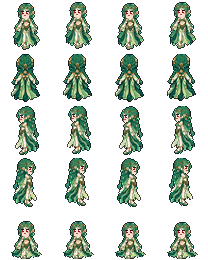
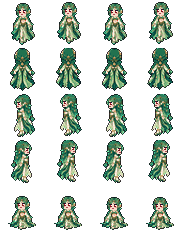
Pixel heroes a little smaller: figure 42 px
Claude-Session: https://claude.ai/code/session_01L2ryCMVY95yrrrnw2USKSA

diff --git a/js/89-pixel-heroes.js b/js/89-pixel-heroes.js
@@ -1,12 +1,12 @@
 /* Hand-drawn pixel heroes (pixel mode only). Atlases from tools/pixel/build_atlas.py:
-   4 columns × 5 rows of 52×52 cells (figure 48 px, converted from the painted class art by
+   4 columns × 5 rows of 46×46 cells (figure 42 px, converted from the painted class art by
    tools/pixel/build_heroes_v3.py) — front, back, walking left, walking
    right, seated meditation. Drawn at a whole number of screen pixels per art pixel and snapped
    to the pixel grid so every hero stays sharp. Classes without a pixel atlas keep their painted sprites. */
 (function(){
  'use strict';
  if(window.artStyle?.get()!=='pixel'||!window.characterMasks)return;
- const READY={Kiem:true,Liem:true,Thuong:true,Quat:true},CW=52,CH=52,FIG=48;
+ const READY={Kiem:true,Liem:true,Thuong:true,Quat:true},CW=46,CH=46,FIG=42;
  const ROW={truoc:0,sau:1,trai:2,phai:3};
  const sheets=new Map(),frames=new Map();
  function sheet(ap){
@@ -39,7 +39,7 @@
   const key=s.key+'/'+c.width;let painted=false;try{painted=c.getContext('2d').getImageData(0,0,1,1).data[3]===0;}catch{}if(key===avatarKey&&!painted)return;avatarKey=key;
   const x=c.getContext('2d'),n=c.width;x.save();x.setTransform(1,0,0,1,0,0);x.clearRect(0,0,n,n);
   const bg=x.createLinearGradient(0,0,0,n);bg.addColorStop(0,'#2b3d4a');bg.addColorStop(1,'#13202a');x.fillStyle=bg;x.fillRect(0,0,n,n);
-  x.imageSmoothingEnabled=false;const crop=30,scale=n/crop;x.drawImage(cell(s,0,0),11,1,crop,crop,(n-crop*scale)/2,n-crop*scale,crop*scale,crop*scale);x.restore();
+  x.imageSmoothingEnabled=false;const crop=26,scale=n/crop;x.drawImage(cell(s,0,0),10,1,crop,crop,(n-crop*scale)/2,n-crop*scale,crop*scale,crop*scale);x.restore();
  },700);
  window.pixelHeroes={ready:READY,sheet};
 })();

diff --git a/tools/pixel/build_heroes_v3.py b/tools/pixel/build_heroes_v3.py
@@ -1,6 +1,6 @@
 """Pixel heroes v3: converted from the painted class art (tools/pixel/hero_convert.py) with
 hand-placed pixel faces, so every school keeps its own costume, headwear and colours.
-Atlas per class+gender: 4 columns x 5 rows of 52x52 cells (figure 48 px):
+Atlas per class+gender: 4 columns x 5 rows of 46x46 cells (figure 42 px):
 rows = front, back, walking left, walking right, meditation.
 Run: python3 tools/pixel/build_heroes_v3.py -> Character/Pixel/<Class>-<Nam|Nu>.png"""
 import os,sys
@@ -9,8 +9,8 @@ from PIL import Image
 HERE=os.path.dirname(os.path.abspath(__file__));sys.path.insert(0,HERE)
 from hero_convert import views
 ROOT=os.path.normpath(os.path.join(HERE,'..','..'))
-CW=CH=52
-FIG=48            # figure height in art pixels (faces below are authored for 60 and scaled)
+CW=CH=46
+FIG=42            # figure height in art pixels (faces below are authored for 60 and scaled)
 # Face boxes (x0,y0,x1,y1, eye row) in the 60-px figures; side boxes are for 'trai' (faces left).
 FACES={
  ('Kiem','Nam'):{'truoc':(22,19,40,30,23),'trai':(20,19,31,30,23)},
